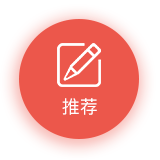
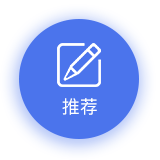
new

diff --git a/1.0 2/GQZhiBo/GQZhiBo/Class/比分页/比分页内页/SubViews/TableViews/ZBRecommendedWKWeb.m b/1.0 2/GQZhiBo/GQZhiBo/Class/比分页/比分页内页/SubViews/TableViews/ZBRecommendedWKWeb.m
@@ -99,7 +99,7 @@
 }
 - (void)webView:(WKWebView *)webView didFinishNavigation:(WKNavigation *)navigation {
     self.progressView.hidden = YES;
-    NSString *jsStr = @"function getStyle(className_){var styleSheets=window.document.styleSheets;var styleSheetsLength=styleSheets.length;for(var i=0;i<styleSheetsLength;i++){var classes=styleSheets[i].rules||styleSheets[i].cssRules;if(!classes)continue;var classesLength=classes.length;for(var x=0;x<classesLength;x++){if(classes[x].selectorText==className_){return classes[x];}}}}setTimeout(function(){getStyle('.nav span.dq') ? getStyle('.nav span.dq').style.background = '#1D4FA0':0;getStyle('.playmoney')?getStyle('.playmoney').style.background = 'url(\"https://tok-fungame.github.io/img/ic_price_bg.png\")':0;getStyle('.navi span.dq').style.background = '#1D4FA0';}, 500);";
+    NSString *jsStr = @"function getStyle(className_){var styleSheets=window.document.styleSheets;var styleSheetsLength=styleSheets.length;for(var i=0;i<styleSheetsLength;i++){var classes=styleSheets[i].rules||styleSheets[i].cssRules;if(!classes)continue;var classesLength=classes.length;for(var x=0;x<classesLength;x++){if(classes[x].selectorText==className_){return classes[x];}}}}setTimeout(function(){getStyle('.nav span.dq') ? getStyle('.nav span.dq').style.background = '#FF8E00':0;getStyle('.playmoney')?getStyle('.playmoney').style.background = 'url(\"https://tok-fungame.github.io/img/ic_price_bg.png\")':0;getStyle('.navi span.dq').style.background = '#FF8E00';}, 500);";
     
 //    NSString *jsStr = @"document.body.style.backgroundColor = 'yellow'";
     [webView evaluateJavaScript:jsStr completionHandler:^(id _Nullable result, NSError * _Nullable error) {}];

diff --git a/1.0 2/GQZhiBo/GQZhiBo/Class/比分页/比分页内页/SubViews/OtherView/LockQingBaoView.m b/1.0 2/GQZhiBo/GQZhiBo/Class/比分页/比分页内页/SubViews/OtherView/LockQingBaoView.m
@@ -39,14 +39,14 @@
     
     _messageLab = [[UILabel alloc]initWithFrame:CGRectZero];
     _messageLab.numberOfLines = 1;
-    _messageLab.textColor = UIColorHex(#F96153);
+    _messageLab.textColor = UIColorHex(#FF8E00);
     _messageLab.font = [UIFont systemFontOfSize:13];
     _messageLab.textAlignment = NSTextAlignmentCenter;
     [self addSubview:_messageLab];
     
     _diamond = [UIButton buttonWithType:UIButtonTypeCustom];
     _diamond.titleLabel.font = [UIFont systemFontOfSize:12];
-    [_diamond setBackgroundColor:UIColorHex(#F96153)];
+    [_diamond setBackgroundColor:UIColorHex(#FF8E00)];
     [_diamond setImage:[UIImage imageNamed:@"lock"] forState:UIControlStateNormal];
     _diamond.layer.cornerRadius = 13;
     _diamond.layer.masksToBounds = true;

diff --git a/1.0 2/GQZhiBo/GQZhiBo/Headers/Properties.h b/1.0 2/GQZhiBo/GQZhiBo/Headers/Properties.h
@@ -2,7 +2,7 @@
 #define GunQiuLive_Properties_h
 #define ColorWithRGBA(r,g,b,a) ([UIColor colorWithRed:r/255.0 green:g/255.0 blue:b/255.0 alpha:a])
 #define UIColorFromRGBWithOX(rgbValue) [UIColor colorWithRed:((float)((rgbValue & 0xFF0000) >> 16))/255.0 green:((float)((rgbValue & 0xFF00) >> 8))/255.0 blue:((float)(rgbValue & 0xFF))/255.0 alpha:1.0]
-#define redcolor UIColorFromRGBWithOX(0x1D4FA0)
+#define redcolor UIColorFromRGBWithOX(0xFF8E00)
 #define yellowcolor UIColorFromRGBWithOX(0xfbbc05)
 #define bluecolor UIColorFromRGBWithOX(0x4285f4)
 #define greencolor UIColorFromRGBWithOX(0x34a853)
